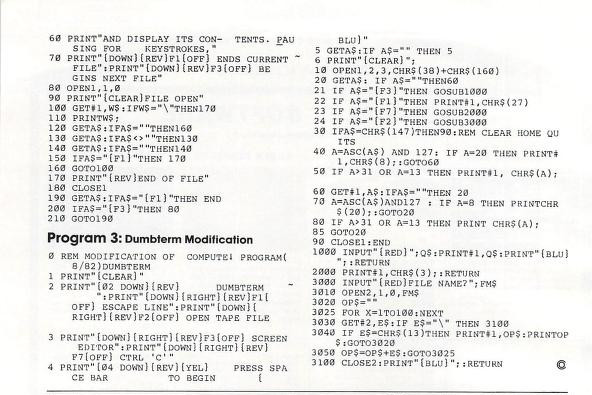
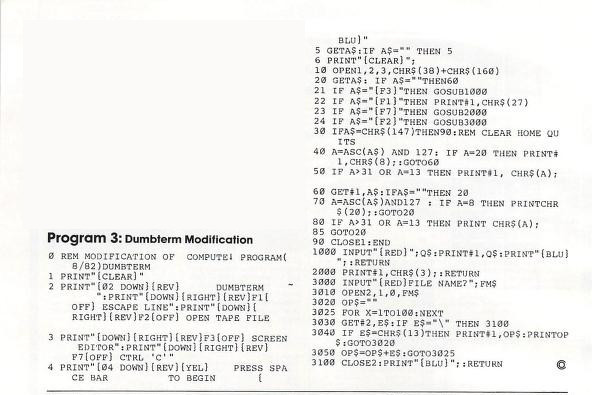
cleaning up images

Changed region(s): [[0.0608, 0.0911, 0.5169, 0.5772]]

diff --git a/results/phase-3.md b/results/phase-3.md
@@ -107,10 +107,10 @@ See `Scriptor` [DIRECTORY](../basiclang/text-editors/scriptor/).
 
 ## TERMINAL CLIENTS
 
-| Filename                 | Year | Platform | Transcription status | Lines of code |
-|--------------------------|------|----------|----------------------|---------------|
-| [DUMBTERM.BAS](#led)     | 1981 | VIC-20   | NOT STARTED          | 9             |
-| [DUMBTERM2.BAS](#wrdpro) | 1982 | VIC-20   | NOT STARTED          | ~ 30          |
+| Filename                                | Year | Platform | Transcription status | Lines of code |
+|-----------------------------------------|------|----------|----------------------|---------------|
+| [DUMBTERM.BAS](#dumbterm)               | 1981 | VIC-20   | NOT STARTED          | 9             |
+| [DUMBTERM2.BAS](#dumbterm-modification) | 1982 | VIC-20   | NOT STARTED          | ~ 30          |
 
 ### DUMBTERM
 
